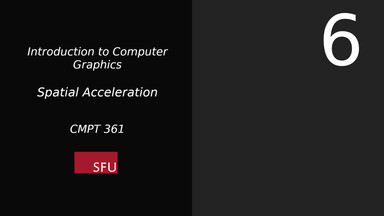
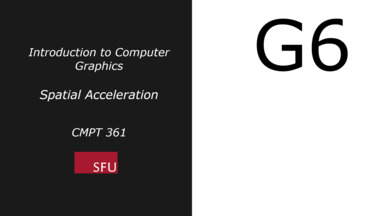
Upload lecture G6

diff --git a/introvc/index.html b/introvc/index.html
@@ -333,11 +333,11 @@ Participation in CourSys discussion forum - <b>up to 5% bonus</b></p>
   <td colspan="2"><p style="text-align:center;margin:0;padding:0;"><b>Nov 11</b></p></td>
   </tr>
   <tr>
-  <td><p style="text-align:center;margin:0;padding:0;"><a href="" target="_blank"><img src="ims/g6.jpg" /></a></p></td>
+  <td><p style="text-align:center;margin:0;padding:0;"><a href="https://youtu.be/8Qq7zxzTzdc" target="_blank"><img src="ims/g6.jpg" /></a></p></td>
   <td colspan="2"><p style="text-align:center;margin:0;padding:0;"><b>Remembrance Day Holiday</b></p></td>
 </tr>
 <tr>
-  <td><p style="text-align:center;margin:0;padding:0;">Reading: CG 8.6.1, 9.10.2-3</p></td>
+  <td><p style="text-align:center;margin:0;padding:0;">Reading: CG 8.6.1, 9.10.2-3<br/><a href="https://www.dropbox.com/s/xz8bt2lqdzyzb7i/g6_spatial-acceleration.pdf?dl=0" target="_blank">--Slides--</a></p></td>
   <td colspan="2"></td>
 </tr>
 
